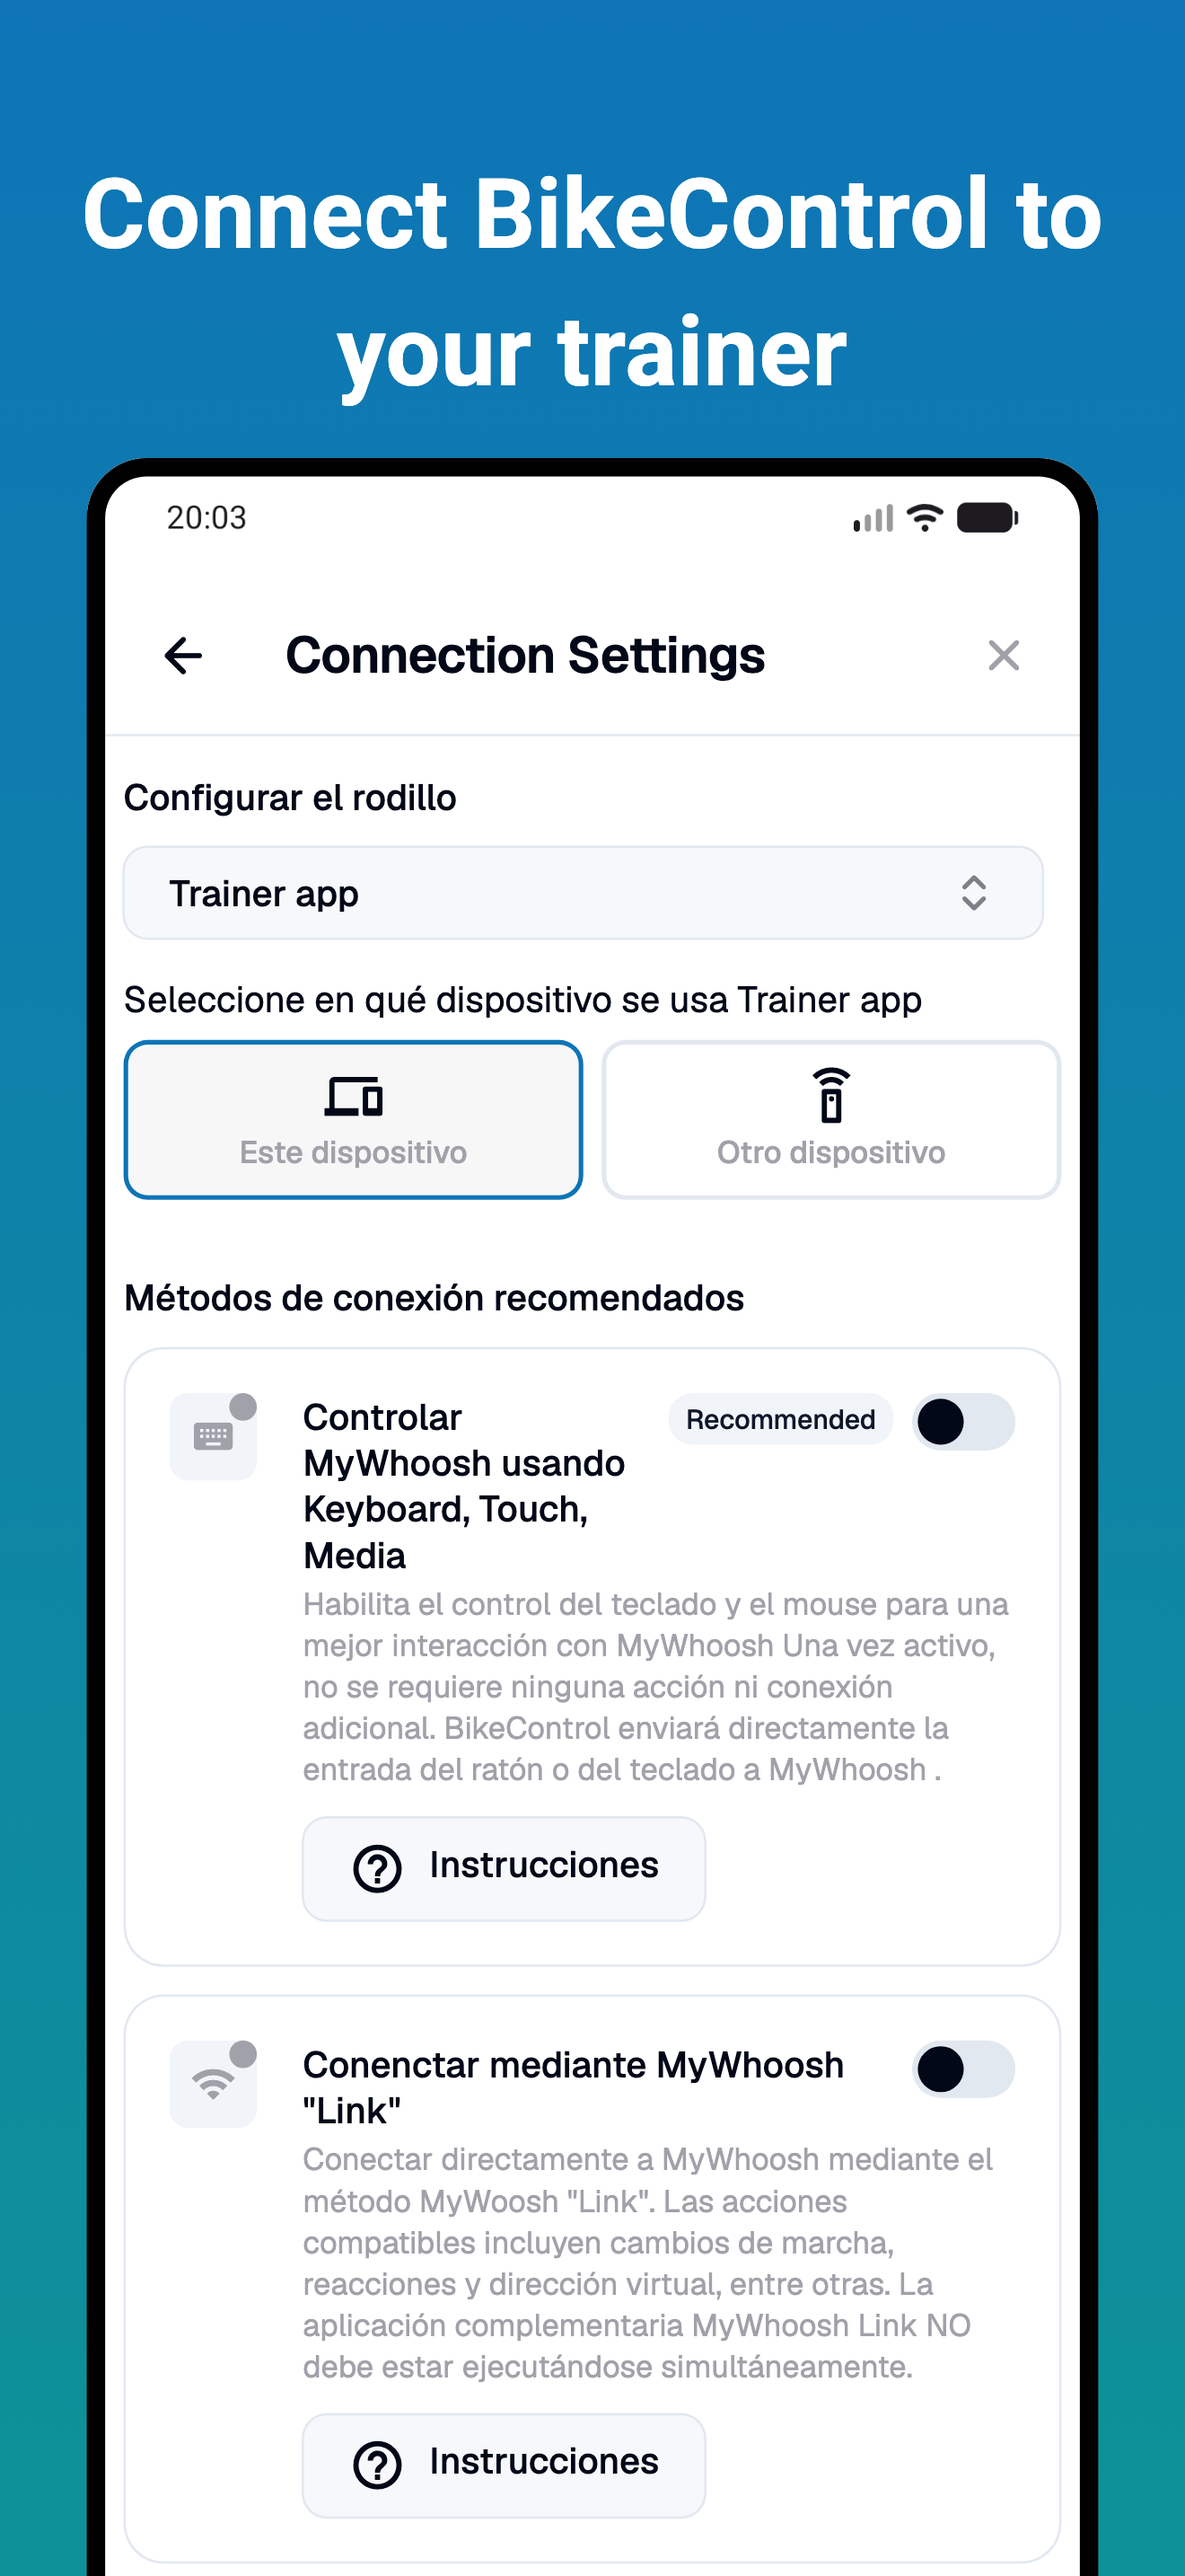
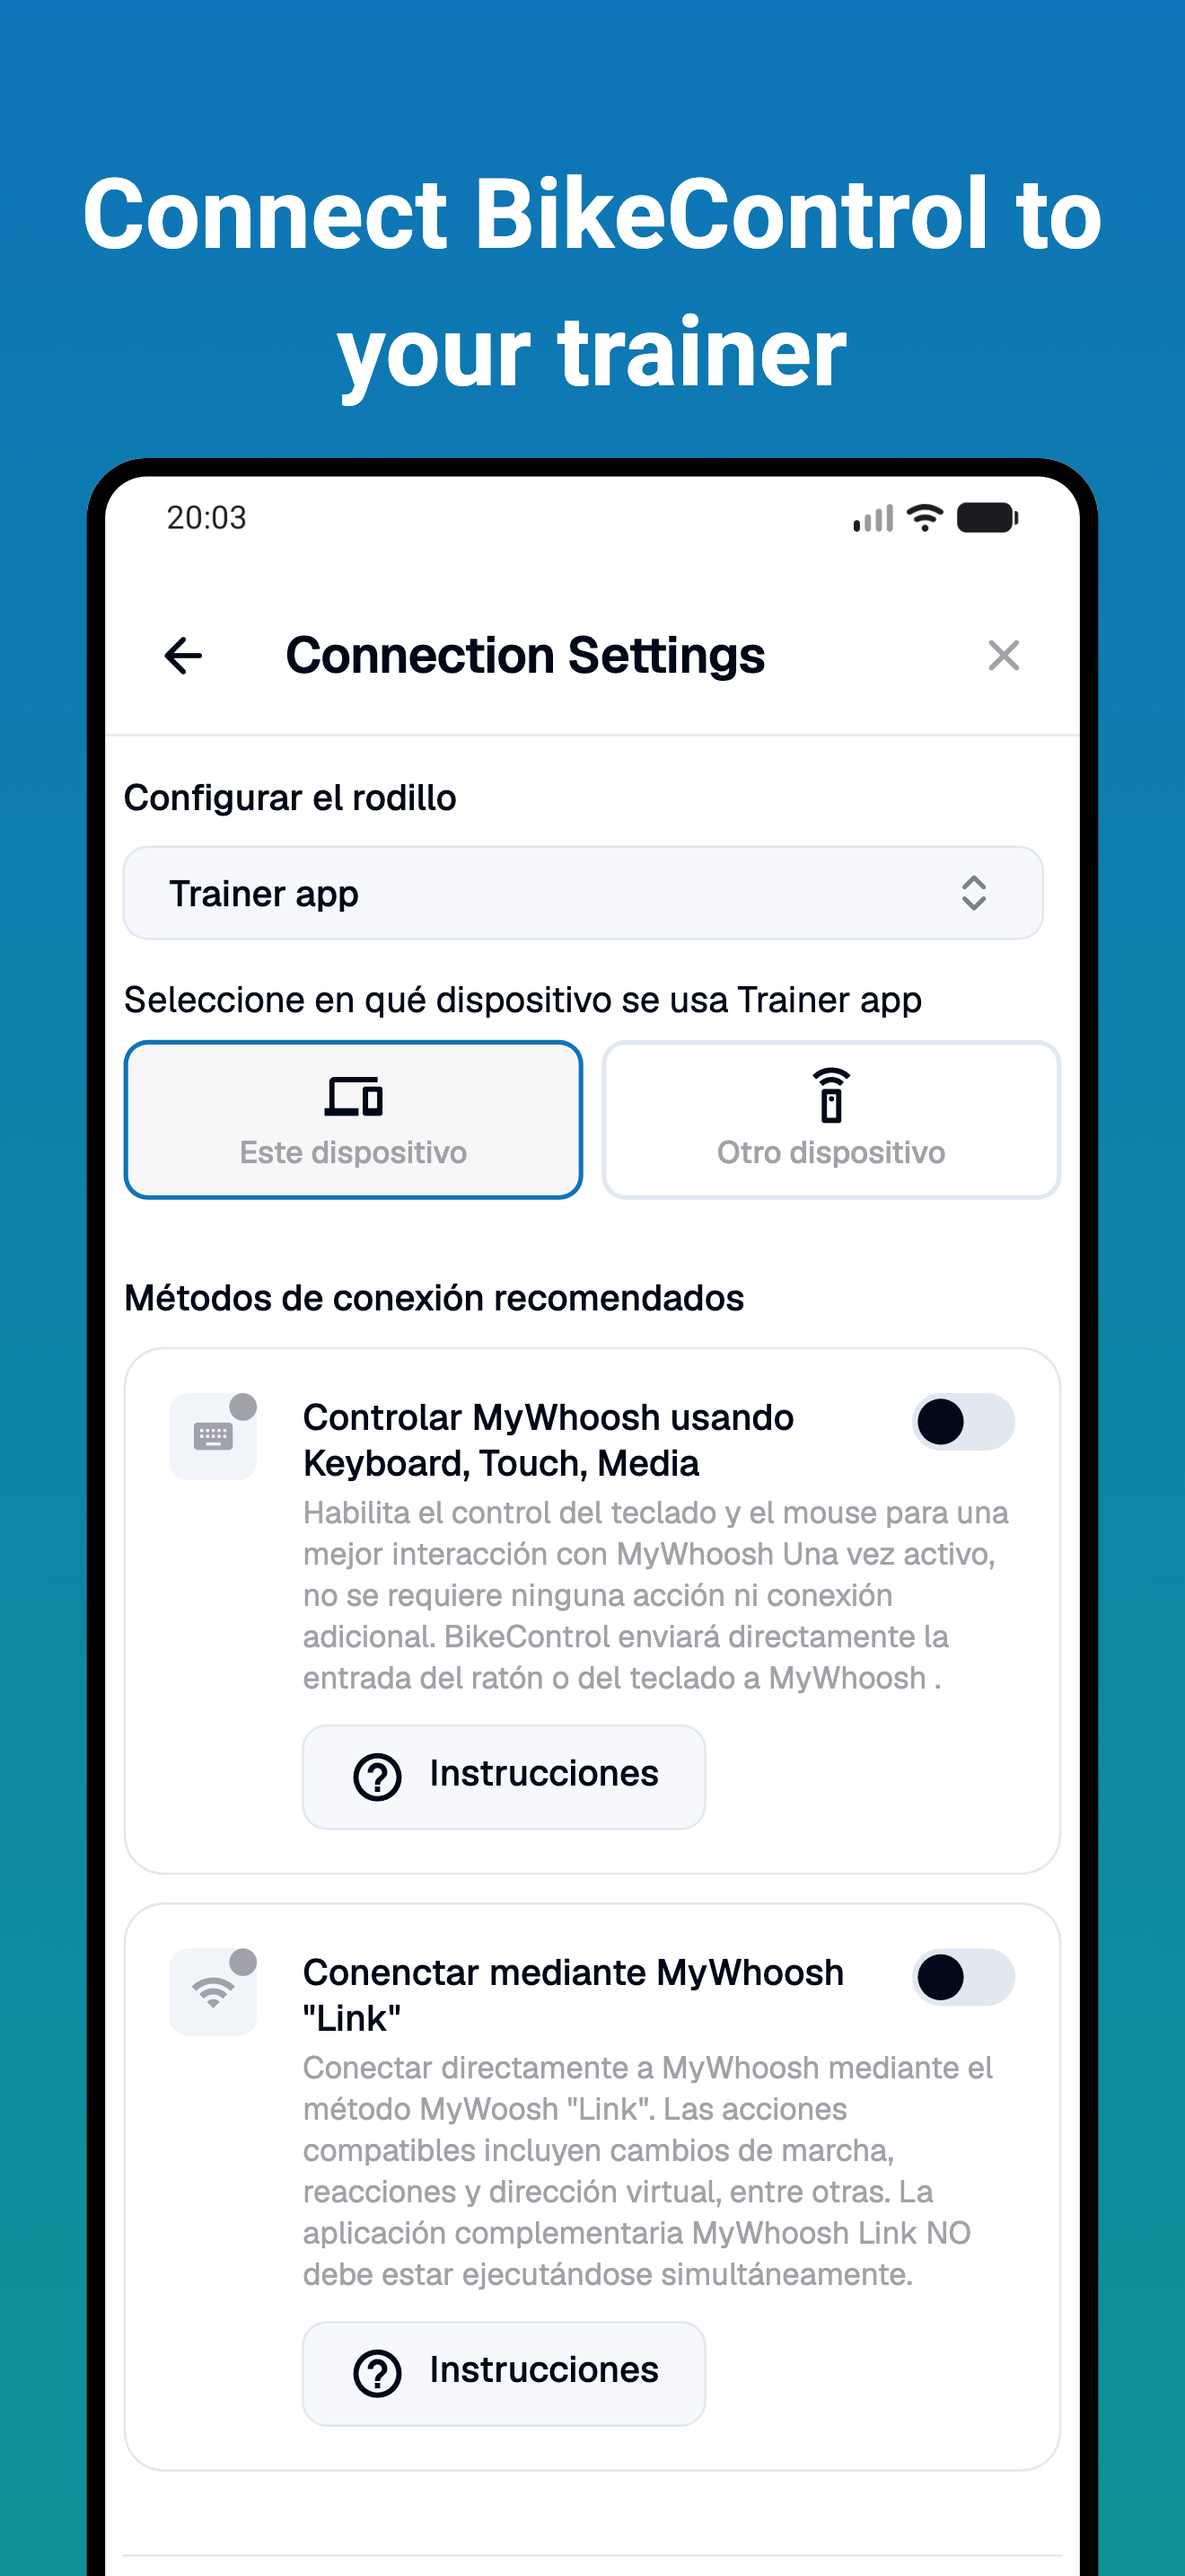
updated screenshots

diff --git a/test/screenshot_test.dart b/test/screenshot_test.dart
@@ -1,3 +1,4 @@
+import 'package:bike_control/bluetooth/devices/zwift/constants.dart';
 import 'package:bike_control/bluetooth/devices/zwift/zwift_ride.dart';
 import 'package:bike_control/main.dart';
 import 'package:bike_control/pages/button_simulator.dart';
@@ -6,6 +7,8 @@ import 'package:bike_control/pages/trainer_connection_settings.dart';
 import 'package:bike_control/utils/core.dart' show core;
 import 'package:bike_control/utils/iap/iap_manager.dart';
 import 'package:bike_control/utils/keymap/apps/my_whoosh.dart';
+import 'package:bike_control/utils/keymap/buttons.dart';
+import 'package:bike_control/utils/keymap/keymap.dart';
 import 'package:bike_control/utils/requirements/multi.dart';
 import 'package:flutter/material.dart' as ma;
 import 'package:flutter_secure_storage/flutter_secure_storage.dart';
@@ -46,9 +49,7 @@ Future<void> main() async {
   await core.settings.init();
   await core.settings.reset();
 
-  core.settings.setTrainerApp(MyWhoosh());
-  core.settings.setKeyMap(MyWhoosh());
-  core.settings.setLastTarget(Target.thisDevice);
+  final keymap = MyWhoosh();
 
   final device =
       ZwiftRide(
@@ -61,7 +62,16 @@ Future<void> main() async {
         ..isConnected = true
         ..rssi = -51
         ..batteryLevel = 81;
+
   core.connection.addDevices([device]);
+
+  final firstButton = ZwiftButtons.b.copyWith(sourceDeviceId: device.uniqueId);
+  final keyEntry = keymap.keymap.getOrCreateKeyPair(firstButton, trigger: ButtonTrigger.longPress);
+  keyEntry.inGameAction = InGameAction.steerRight;
+
+  core.settings.setTrainerApp(keymap);
+  core.settings.setKeyMap(keymap);
+  core.settings.setLastTarget(Target.thisDevice);
 
   final List<({DeviceType type, TargetPlatform platform, Size size})> sizes = [
     (type: DeviceType.android, platform: TargetPlatform.android, size: Size(1320, 2868)),
@@ -106,43 +116,6 @@ Future<void> main() async {
       );
 
       await tester.pump();
-    }
-  });
-  testGoldens('Device', (WidgetTester tester) async {
-    IAPManager.instance.isPurchased.value = true;
-    for (final size in sizes) {
-      await tester.pumpWidget(
-        ScreenshotApp(
-          device: ScreenshotDevice(
-            platform: size.platform,
-            resolution: size.size,
-            pixelRatio: 3,
-            goldenSubFolder: 'iphoneScreenshots/',
-            frameBuilder:
-                ({
-                  required ScreenshotDevice device,
-                  required ScreenshotFrameColors? frameColors,
-                  required Widget child,
-                }) => CustomFrame(
-                  platform: size.type,
-                  title: 'Control your trainer app using ANY controller',
-                  device: device,
-                  child: child,
-                ),
-          ),
-          home: BikeControlApp(
-            customChild: ControllerSettingsPage(device: device),
-          ),
-        ),
-      );
-
-      await tester.pump();
-      await expectLater(
-        find.byType(ma.Scaffold),
-        matchesGoldenFile(
-          '../screenshots/device-${size.type.name}-${size.size.width.toInt()}x${size.size.height.toInt()}.png',
-        ),
-      );
     }
   });
 

diff --git a/lib/widgets/keymap_explanation.dart b/lib/widgets/keymap_explanation.dart
@@ -1,7 +1,9 @@
 import 'dart:async';
 
 import 'package:bike_control/bluetooth/devices/base_device.dart';
+import 'package:bike_control/bluetooth/devices/zwift/constants.dart';
 import 'package:bike_control/gen/l10n.dart';
+import 'package:bike_control/main.dart';
 import 'package:bike_control/pages/button_edit.dart';
 import 'package:bike_control/utils/core.dart';
 import 'package:bike_control/utils/i18n_extension.dart';
@@ -229,8 +231,26 @@ class _KeymapExplanationState extends State<KeymapExplanation> {
     required ButtonTrigger trigger,
     required bool supportsLongPress,
   }) {
-    final keyPair = widget.keymap.getKeyPair(deviceButton, trigger: trigger);
+    KeyPair? keyPair = widget.keymap.getKeyPair(deviceButton, trigger: trigger);
     final longPressKeyPair = widget.keymap.getKeyPair(deviceButton, trigger: ButtonTrigger.longPress);
+    if (screenshotMode &&
+        keyPair == null &&
+        deviceButton.name == ZwiftButtons.a.name &&
+        trigger == ButtonTrigger.longPress) {
+      // TODO fix it in the screenshot_test.dart instead
+      keyPair = KeyPair(
+        physicalKey: null,
+        logicalKey: null,
+        modifiers: [],
+        touchPosition: Offset.zero,
+        inGameAction: InGameAction.steerRight,
+        inGameActionValue: null,
+        androidAction: null,
+        command: null,
+        screenshotPath: null,
+        buttons: [ZwiftButtons.a],
+      );
+    }
     final showProBanner = _shouldShowProBanner(button: deviceButton, trigger: trigger);
     final hasAction = keyPair != null && !keyPair.hasNoAction;
     final hasLongPressAction = longPressKeyPair != null && !longPressKeyPair.hasNoAction;

diff --git a/lib/widgets/ui/connection_method.dart b/lib/widgets/ui/connection_method.dart
@@ -1,5 +1,6 @@
 import 'package:bike_control/bluetooth/devices/trainer_connection.dart';
 import 'package:bike_control/gen/l10n.dart';
+import 'package:bike_control/main.dart';
 import 'package:bike_control/pages/markdown.dart';
 import 'package:bike_control/utils/i18n_extension.dart';
 import 'package:bike_control/utils/keymap/buttons.dart';
@@ -130,7 +131,7 @@ class _ConnectionMethodState extends State<ConnectionMethod> with WidgetsBinding
                   padding: const EdgeInsets.only(top: 1.0),
                   child: BetaPill(),
                 )
-              else if (widget.isRecommended)
+              else if (widget.isRecommended && !screenshotMode)
                 SecondaryBadge(child: Text('Recommended')),
               Switch(
                 value: widget.isEnabled,

diff --git a/test/custom_frame.dart b/test/custom_frame.dart
@@ -1,6 +1,6 @@
+import 'package:bike_control/widgets/ui/colors.dart';
 import 'package:flutter/material.dart';
 import 'package:golden_screenshot/golden_screenshot.dart';
-import 'package:bike_control/widgets/ui/colors.dart';
 
 import 'screenshot_test.dart';
 
@@ -50,7 +50,7 @@ class CustomFrame extends StatelessWidget {
                     ),
                   ),
                   Positioned(
-                    top: 170,
+                    top: [DeviceType.androidTablet, DeviceType.iPad, DeviceType.desktop].contains(platform) ? 120 : 170,
                     left: 8,
                     right: 8,
                     bottom: -30,
